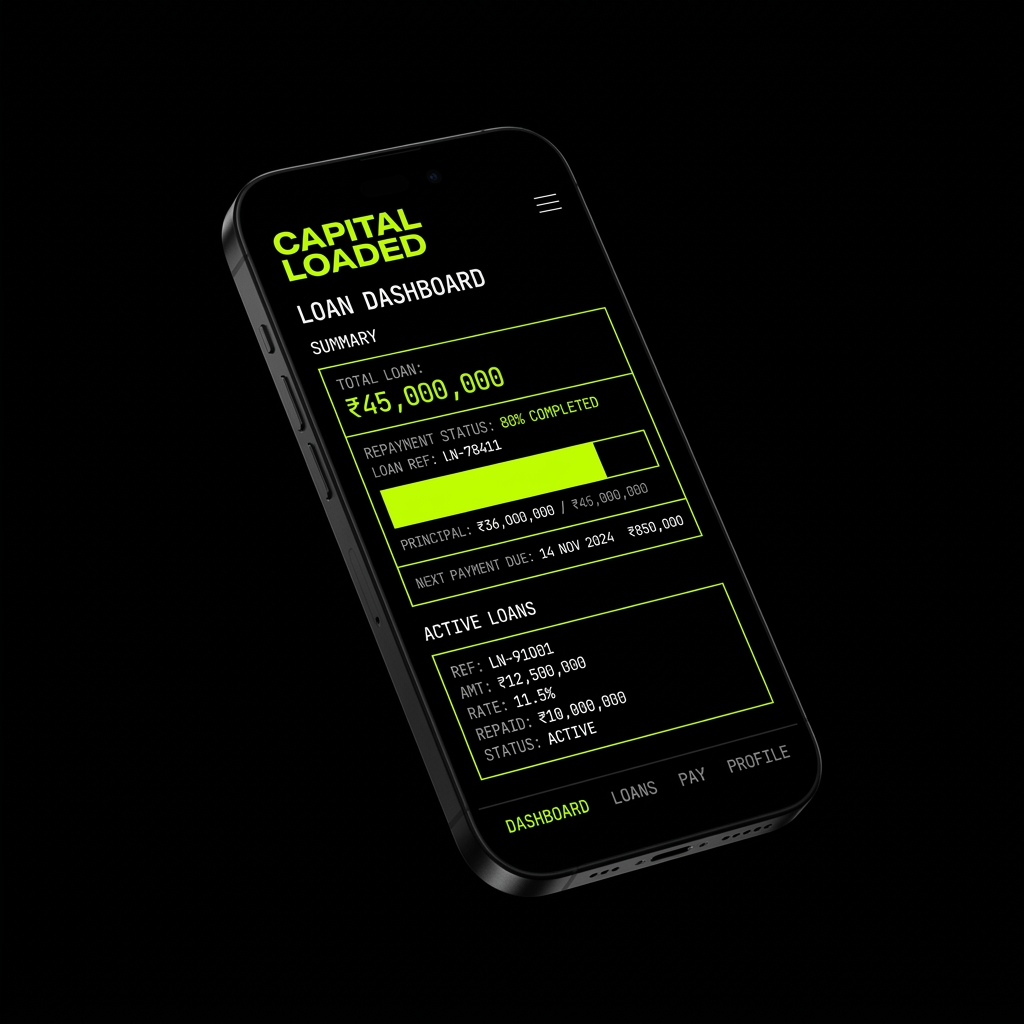
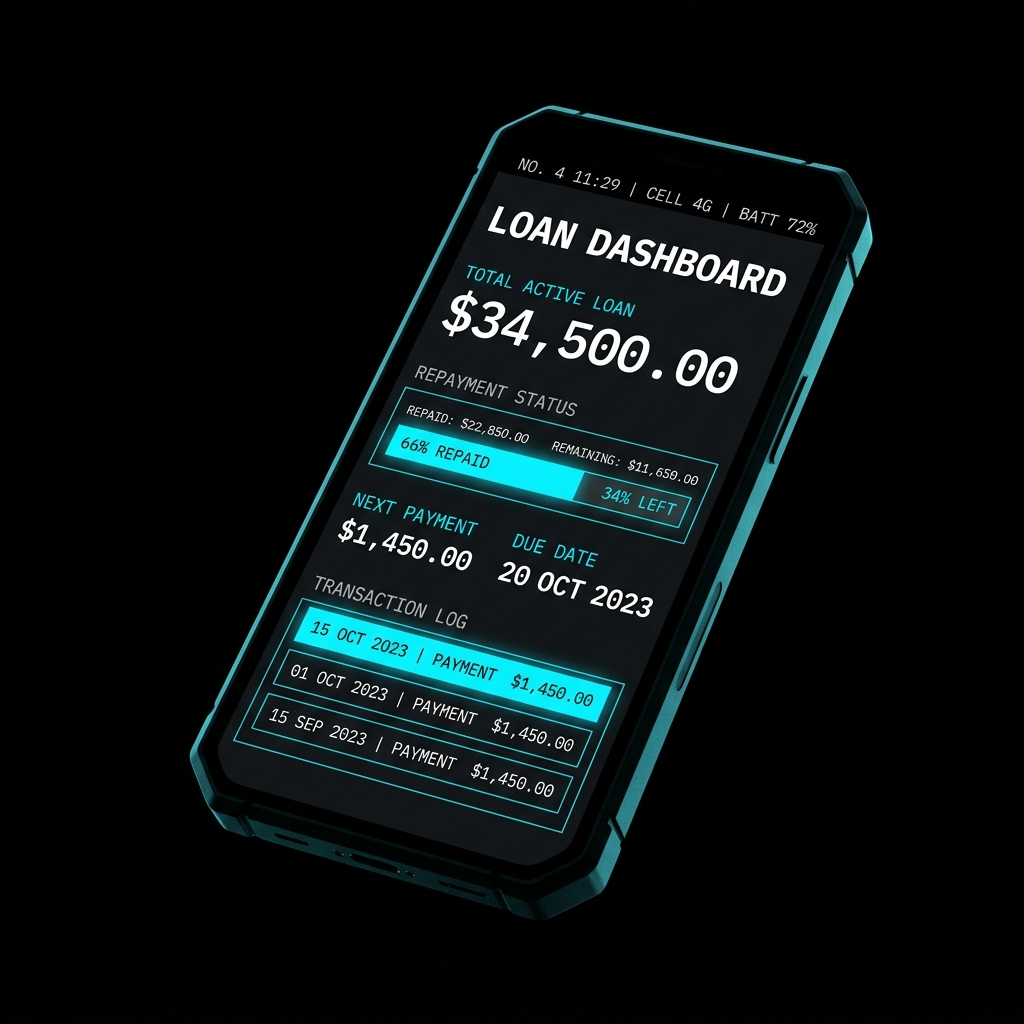
Update target audience to include 40+ demographic and replace moodboard images with blue versions

diff --git a/index.html b/index.html
@@ -140,7 +140,7 @@
             </h1>
             <div class="grid grid-cols-1 md:grid-cols-2 gap-12 mt-16 reveal">
                 <p class="font-mono text-muted text-sm leading-relaxed max-w-md">
-                    Traditional lenders see young India as a risk. Finfluencers lecture them to stop buying coffee. WeCredit rejects both. We don't do toxic hustle culture, and we don't do corporate jargon. We provide raw, un-neutered capital for the gig-economy—pricing risk honestly and aggressively punishing predatory lending norms.
+                    Traditional lenders see ambition as a risk. Finfluencers lecture people to stop spending. WeCredit rejects both. Whether you're 22 or 52, if the system failed you, we fund you. We provide raw, un-neutered capital across generations—pricing risk honestly and aggressively punishing predatory lending norms.
                 </p>
                 <div class="flex flex-col justify-end">
                     <div class="brutal-border-lime p-4 inline-block bg-lime text-void font-bold uppercase text-xl max-w-max transform rotate-2">
@@ -165,26 +165,34 @@
                 <div class="lg:col-span-7 p-8 md:p-12 border-b-2 lg:border-b-0 lg:border-r-2 border-zinc bg-void relative overflow-hidden">
                     <div class="absolute top-4 right-4 text-zinc font-mono text-9xl opacity-20 select-none">01</div>
                     <h3 class="font-mono text-lime tracking-widest text-xs uppercase mb-6">Target Audience</h3>
-                    <h4 class="text-4xl font-bold uppercase tracking-tight mb-6">The "Credit Ghosts" & Gen-Z Hackers</h4>
+                    <h4 class="text-4xl font-bold uppercase tracking-tight mb-6">The "Credit Ghosts" Across Generations</h4>
                     <p class="text-muted font-mono text-sm leading-relaxed mb-6">
-                        We are building for the invisible prime. Age 18-30. High ambition, high daily cash flow, but utterly invisible to the traditional banking system because they don't have a corporate salary slip. They are natively digital, suffer from economic nihilism, and trust creators over corporations.
+                        We are building for the invisible prime—across every age group. High ambition, real cash flow, but systematically ignored by the traditional banking system. From the 22-year-old dropshipper to the 48-year-old kirana owner, they share one trait: the system wasn't built for them.
                     </p>
                     <ul class="space-y-4 font-mono text-sm text-paper">
                         <li class="flex items-start gap-3">
                             <span class="text-lime">→</span> 
-                            <span><strong>The 19-Year-Old Arbitrager:</strong> The Gen-Z dropshipper who needs ₹40k of ad-spend capital on Friday to double their returns by Sunday.</span>
+                            <span><strong>The 45-Year-Old Kirana Owner:</strong> Running ₹3L/month through UPI, needs ₹80k to bulk-buy inventory before Diwali. His bank wants 3 months of ITR filings he doesn't have.</span>
                         </li>
                         <li class="flex items-start gap-3">
                             <span class="text-lime">→</span> 
-                            <span><strong>The Micro-Fleet Operator:</strong> Owns 3 Rapido bikes. Needs instant cash flow to fix a broken engine so their rider doesn't lose a day of wages.</span>
+                            <span><strong>The Micro-Fleet Operator (Age 38):</strong> Owns 3 Rapido bikes. Needs instant cash flow to fix a broken engine so their rider doesn't lose a day of wages.</span>
                         </li>
                         <li class="flex items-start gap-3">
                             <span class="text-lime">→</span> 
-                            <span><strong>The Event Hustler:</strong> Freelance wedding manager who needs to put down a ₹50k deposit for camera lenses today, getting paid ₹1L next week.</span>
+                            <span><strong>The 22-Year-Old Arbitrager:</strong> The dropshipper who needs ₹40k of ad-spend capital on Friday to double their returns by Sunday. Zero CIBIL history.</span>
+                        </li>
+                        <li class="flex items-start gap-3">
+                            <span class="text-lime">→</span> 
+                            <span><strong>The 52-Year-Old Contractor:</strong> Retired from corporate, now running a painting/renovation crew. Needs ₹1.5L bridge capital between project milestones. Banks see "retired" and close the door.</span>
+                        </li>
+                        <li class="flex items-start gap-3">
+                            <span class="text-lime">→</span> 
+                            <span><strong>The Event Hustler (Age 30):</strong> Freelance wedding manager who needs ₹50k deposit for camera lenses today, getting paid ₹1L next week.</span>
                         </li>
                     </ul>
                     <p class="mt-6 text-muted font-mono text-sm border-l-2 border-lime pl-4 italic">
-                        Banks look at their 0 CIBIL score and reject them. We look at their ₹2 Lakh monthly UPI velocity and fund them in 3 minutes.
+                        Banks look at missing paperwork and reject them—regardless of age. We look at their ₹2 Lakh monthly UPI velocity and fund them in 3 minutes.
                     </p>
                 </div>
 
@@ -408,14 +416,15 @@
                     </div>
                     <h4 class="text-2xl font-bold uppercase mb-4 text-lime">The 48-Hour R.O.I</h4>
                     <p class="font-mono text-sm text-muted mb-6 leading-relaxed">
-                        Micro-documentaries highlighting extreme, fast-paced capitalism. Showing how the gig-economy uses our capital as a tactical weapon over a weekend.
+                        Micro-documentaries highlighting extreme, fast-paced capital deployment. Showing how entrepreneurs across age groups use our capital as a tactical weapon—a weekend flip for a 22-year-old, a seasonal stock-up for a 48-year-old.
                     </p>
                     <div class="border-t-2 border-zinc pt-4">
                         <h5 class="font-bold text-xs uppercase tracking-widest text-lime mb-2">Execution (Carousel/Shorts):</h5>
                         <p class="font-mono text-xs bg-zinc/30 p-3 italic text-muted">
-                            Slide 1 (Friday 4 PM): Aman borrows ₹10k from WeCredit to buy bulk inventory for a weekend flea market.<br><br>
+                            Slide 1 (Friday 4 PM): Aman, 22, borrows ₹10k from WeCredit to buy bulk inventory for a weekend flea market.<br><br>
                             Slide 2 (Sunday 9 PM): Aman posts ₹28k in sales.<br><br>
-                            Slide 3 (Monday 9 AM): Aman repays ₹10,150. Profit: ₹17,850. <strong>This is what Good Debt looks like.</strong>
+                            Slide 3 (Monday 9 AM): Aman repays ₹10,150. Profit: ₹17,850. <strong>This is what Good Debt looks like.</strong><br><br>
+                            Slide 4: Suresh, 47, borrows ₹60k for pre-Diwali kirana stock. Sells ₹1.8L in 10 days. Repays ₹60,900. <strong>Same principle. Different generation. Same WeCredit.</strong>
                         </p>
                     </div>
                 </div>
@@ -425,17 +434,17 @@
                     <div class="absolute -right-4 -top-8 text-[8rem] opacity-10 font-bold rotate-12 select-none">💀</div>
                     <div class="flex justify-between items-start mb-6">
                         <span class="font-mono text-xs bg-lime text-void px-2 py-1 uppercase font-bold">Pillar 04</span>
-                        <span class="font-mono text-xs text-lime border border-lime px-2 py-1 uppercase bg-void/50 backdrop-blur-sm">Gen-Z / Alpha Vector</span>
+                        <span class="font-mono text-xs text-lime border border-lime px-2 py-1 uppercase bg-void/50 backdrop-blur-sm">Cross-Generational Vector</span>
                     </div>
                     <h4 class="text-2xl font-bold uppercase mb-4 text-white">Algorithmic Nihilism & Lore</h4>
                     <p class="font-mono text-sm text-muted mb-6 leading-relaxed">
-                        Leaning heavily into "brainrot" humor, hyper-niche internet culture, and the "unhinged admin" persona. We don't market; we shitpost about the broken economy while offering the only cheat code (our capital). We stitch, duet, and relentlessly roast generic financial advice.
+                        For the younger cohort, we lean into internet culture, memes, and the "unhinged admin" persona. For the 40+ base, we build trust through radical transparency and WhatsApp-native content—vernacular case studies, voice-note testimonials, and community-driven credibility. Two languages, one principle: banks failed you, we won't.
                     </p>
                     <div class="border-t-2 border-lime/30 pt-4">
                         <h5 class="font-bold text-xs uppercase tracking-widest text-lime mb-2">Execution (TikTok/Reels Stitches):</h5>
                         <p class="font-mono text-xs bg-void/80 p-3 italic text-paper border-l-4 border-lime">
-                            <strong>Screen 1:</strong> Generic finfluencer saying "If you invest ₹500 SIP for 40 years..." <br><br>
-                            <strong>Screen 2 (WeCredit Admin stitch, lo-fi mic, deep-fried filter):</strong> "Bro thinks we are surviving till 2066 💀. My guy, the economy is cooked. Take ₹20k from WeCredit, flip sneakers this weekend, and make that return in 48 hours. Stop acting like a boomer. Link in bio, stay liquid." 
+                            <strong>Track A (Under 30 / Reels):</strong> Generic finfluencer saying "Invest ₹500 SIP for 40 years..." → WeCredit Admin stitch: "The economy is cooked. Take ₹20k, flip sneakers this weekend, return in 48 hours. Stay liquid." <br><br>
+                            <strong>Track B (40+ / WhatsApp):</strong> 90-second voice-note from Ramesh, 46, Pune: "Main 3 bank gaya, sab ne mana kiya. WeCredit ne 4 minute mein ₹70k diya. Dukaan ka stock bhar liya. Ab main unka kya karunga bank ka?" Forwarded 1,400 times in seller WhatsApp groups.
                         </p>
                     </div>
                 </div>
@@ -446,33 +455,33 @@
 
     <section class="py-16 px-6 border-b-2 border-zinc bg-[#111113]">
         <div class="max-w-screen-2xl mx-auto reveal">
-            <h2 class="font-mono text-lime tracking-widest text-sm uppercase mb-8 border-b border-zinc pb-4">Gen-Z / Alpha Distribution Tactics</h2>
+            <h2 class="font-mono text-lime tracking-widest text-sm uppercase mb-8 border-b border-zinc pb-4">Multi-Generational Distribution Tactics</h2>
             
             <div class="grid grid-cols-1 md:grid-cols-3 gap-6 font-mono">
                 <!-- Tactic 1 -->
                 <div class="p-6 border border-zinc hover:border-lime transition-colors bg-void group">
                     <div class="text-lime text-2xl mb-4 group-hover:scale-110 transition-transform">👾</div>
-                    <h4 class="text-white text-lg font-bold uppercase mb-2">Gamified Bounties, Not Referrals</h4>
+                    <h4 class="text-white text-lg font-bold uppercase mb-2">Gamified Bounties (Under 30)</h4>
                     <p class="text-muted text-xs leading-relaxed">
-                        Gen Z ignores "Refer a friend for ₹100." We frame growth as multiplayer missions. "Bounty: Get 3 friends to complete their first 48-hour arbitrage. Reward: Zero-fee capital for a month." Treat the app ecosystem like a Discord server economy.
+                        Young users ignore "Refer a friend for ₹100." We frame growth as multiplayer missions. "Bounty: Get 3 friends to complete their first 48-hour arbitrage. Reward: Zero-fee capital for a month." Treat the app ecosystem like a Discord server economy.
                     </p>
                 </div>
 
                 <!-- Tactic 2 -->
                 <div class="p-6 border border-zinc hover:border-lime transition-colors bg-void group">
-                    <div class="text-lime text-2xl mb-4 group-hover:scale-110 transition-transform">📱</div>
-                    <h4 class="text-white text-lg font-bold uppercase mb-2">UGC "Glitch" Campaigns</h4>
+                    <div class="text-lime text-2xl mb-4 group-hover:scale-110 transition-transform">📲</div>
+                    <h4 class="text-white text-lg font-bold uppercase mb-2">WhatsApp-Native Trust (40+)</h4>
                     <p class="text-muted text-xs leading-relaxed">
-                        We actively sponsor micro-creators to make videos claiming WeCredit is a "glitch in the banking matrix." "POV: You found the infinite money glitch for freelancers." It plays directly into the simulation/gaming vocabulary of Gen Alpha.
+                        Our core 40+ base lives on WhatsApp, not Instagram. We deploy vernacular voice-note testimonials, forwarded case studies in Hindi/regional languages, and community group infiltration. A real shopkeeper vouching for WeCredit in a 500-member trader group is worth 10,000 ad impressions.
                     </p>
                 </div>
 
                 <!-- Tactic 3 -->
                 <div class="p-6 border border-zinc hover:border-lime transition-colors bg-void group">
                     <div class="text-lime text-2xl mb-4 group-hover:scale-110 transition-transform">🎭</div>
-                    <h4 class="text-white text-lg font-bold uppercase mb-2">The Mascot / Admin Persona</h4>
+                    <h4 class="text-white text-lg font-bold uppercase mb-2">The Admin Persona (Universal)</h4>
                     <p class="text-muted text-xs leading-relaxed">
-                        Instead of a corporate logo, WeCredit is represented by a faceless, slightly chaotic, highly intelligent "Admin" figure across socials. They drop lore, reply to comments with slang ("W hustle", "skill issue"), and act as a rebellious older sibling fighting the banks.
+                        WeCredit is represented by a faceless, sharp, highly intelligent "Admin" figure across all channels. On Reels, they roast bad financial advice. On WhatsApp, they send blunt, no-BS financial tips. One persona, adapted per platform—a rebellious ally fighting the banks for every age group.
                     </p>
                 </div>
             </div>
